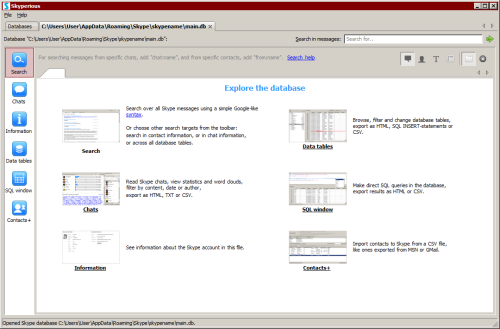
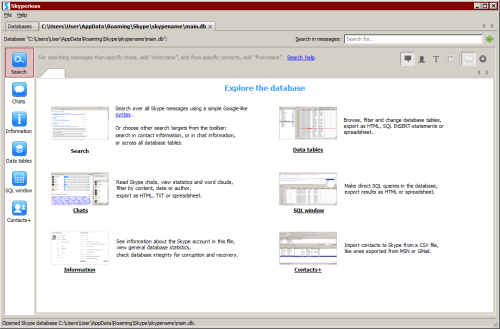
Updated texts and screenshots to v2.3.

diff --git a/index.html b/index.html
@@ -38,9 +38,9 @@
           <a href="https://github.com/suurjaak/Skyperious">View the Project on GitHub <small>suurjaak/Skyperious</small></a>
         </p>
         <ul>
-          <li><a href="http://erki.lap.ee/downloads/Skyperious/skyperious_2.2_setup.exe">Download <strong>Setup</strong></a></li>
-          <li><a href="http://erki.lap.ee/downloads/Skyperious/skyperious_2.2_x64_setup.exe">Download <strong>64bit Setup</strong></a></li>
-          <li><a href="http://erki.lap.ee/downloads/Skyperious/skyperious_2.2-src.zip">Download <strong>Source</strong></a></li>
+          <li><a href="http://erki.lap.ee/downloads/Skyperious/skyperious_2.3_setup.exe">Download <strong>Setup</strong></a></li>
+          <li><a href="http://erki.lap.ee/downloads/Skyperious/skyperious_2.3_x64_setup.exe">Download <strong>64bit Setup</strong></a></li>
+          <li><a href="http://erki.lap.ee/downloads/Skyperious/skyperious_2.3-src.zip">Download <strong>Source</strong></a></li>
         </ul>
       </header>
       <section>
@@ -96,13 +96,13 @@ Python packages are installed.
 Skyperious has been built using the following open-source software:
 <ul>
 <li>Python 2.7.5, <a href="http://www.python.org">www.python.org</a></li>
-<li>wxPython 2.9.4, <a href="http://wxpython.org">wxpython.org</a></li>
-<li>BeautifulSoup 3.2.1, <a href="http://crummy.com/software/BeautifulSoup">crummy.com/software/BeautifulSoup</a></li>
+<li>wxPython 2.9.5, <a href="http://wxpython.org">wxpython.org</a></li>
 <li>step, Simple Template Engine for Python, <a href="https://github.com/dotpy/step">github.com/dotpy/step</a></li>
 <li>pyparsing 2.0.1, <a href="http://pyparsing.wikispaces.com/">pyparsing.wikispaces.com</a></li>
+<li>XlsxWriter 0.4.8, <a href="https://github.com/jmcnamara/XlsxWriter">github.com/jmcnamara/XlsxWriter</a></li>
 <li>dateutil, <a href="https://pypi.python.org/pypi/python-dateutil">pypi.python.org/pypi/python-dateutil</a></li>
 <li>Skype4Py, <a href="https://github.com/awahlig/skype4py">github.com/awahlig/skype4py</a></li>
-<li>PyInstaller 2.0, <a href="http://www.pyinstaller.org">www.pyinstaller.org</a></li>
+<li>PyInstaller 2.1, <a href="http://www.pyinstaller.org">www.pyinstaller.org</a></li>
 </ul>
 
 <p>Emoticon images in HTML export are property of Skype Limited, &copy; 2004-2006,

diff --git a/changelog.html b/changelog.html
@@ -38,14 +38,33 @@
           <a href="https://github.com/suurjaak/Skyperious">View the Project on GitHub <small>suurjaak/Skyperious</small></a>
         </p>
         <ul>
-          <li><a href="http://erki.lap.ee/downloads/Skyperious/skyperious_2.2_setup.exe">Download <strong>Setup</strong></a></li>
-          <li><a href="http://erki.lap.ee/downloads/Skyperious/skyperious_2.2_x64_setup.exe">Download <strong>64bit Setup</strong></a></li>
-          <li><a href="http://erki.lap.ee/downloads/Skyperious/skyperious_2.2-src.zip">Download <strong>Source</strong></a></li>
+          <li><a href="http://erki.lap.ee/downloads/Skyperious/skyperious_2.3_setup.exe">Download <strong>Setup</strong></a></li>
+          <li><a href="http://erki.lap.ee/downloads/Skyperious/skyperious_2.3_x64_setup.exe">Download <strong>64bit Setup</strong></a></li>
+          <li><a href="http://erki.lap.ee/downloads/Skyperious/skyperious_2.3-src.zip">Download <strong>Source</strong></a></li>
         </ul>
       </header>
 
       <section>
         <h2>Changelog</h2>
+
+        <h4>v2.3, 2013-11-17:</h4>
+        <ul>
+          <li>added Excel export;</li>
+          <li>added option to export multiple chats to a single Excel workbook;</li>
+          <li>added database corruption detection and recovery;</li>
+          <li>added more statistics to database information page;</li>
+          <li>fixed exporting from MSN Live accounts;</li>
+          <li>fixed handling file transfer messages with unsupported filenames;</li>
+          <li>fixed concurrency errors during merging;</li>
+          <li>improved emoticon parsing;</li>
+          <li>improved Linux compatibility;</li>
+          <li>a number of minor bugfixes and UI changes;</li>
+          <li>increased error reporting;</li>
+          <li>upgraded wxPython from 2.9.4 to 2.9.5;</li>
+          <li>upgraded PyInstaller from 2.0 to 2.1;</li>
+          <li>dropped BeautifulSoup dependency.</li>
+        </ul>
+        <br />
 
         <h4>v2.2, 2013-09-25:</h4>
         <ul>

diff --git a/downloads.html b/downloads.html
@@ -38,9 +38,9 @@
           <a href="https://github.com/suurjaak/Skyperious">View the Project on GitHub <small>suurjaak/Skyperious</small></a>
         </p>
         <ul>
-          <li><a href="http://erki.lap.ee/downloads/Skyperious/skyperious_2.2_setup.exe">Download <strong>Setup</strong></a></li>
-          <li><a href="http://erki.lap.ee/downloads/Skyperious/skyperious_2.2_x64_setup.exe">Download <strong>64bit Setup</strong></a></li>
-          <li><a href="http://erki.lap.ee/downloads/Skyperious/skyperious_2.2-src.zip">Download <strong>Source</strong></a></li>
+          <li><a href="http://erki.lap.ee/downloads/Skyperious/skyperious_2.3_setup.exe">Download <strong>Setup</strong></a></li>
+          <li><a href="http://erki.lap.ee/downloads/Skyperious/skyperious_2.3_x64_setup.exe">Download <strong>64bit Setup</strong></a></li>
+          <li><a href="http://erki.lap.ee/downloads/Skyperious/skyperious_2.3-src.zip">Download <strong>Source</strong></a></li>
         </ul>
       </header>
       <section>

diff --git a/screens.html b/screens.html
@@ -38,9 +38,9 @@
           <a href="https://github.com/suurjaak/Skyperious">View the Project on GitHub <small>suurjaak/Skyperious</small></a>
         </p>
         <ul>
-          <li><a href="http://erki.lap.ee/downloads/Skyperious/skyperious_2.2_setup.exe">Download <strong>Setup</strong></a></li>
-          <li><a href="http://erki.lap.ee/downloads/Skyperious/skyperious_2.2_x64_setup.exe">Download <strong>64bit Setup</strong></a></li>
-          <li><a href="http://erki.lap.ee/downloads/Skyperious/skyperious_2.2-src.zip">Download <strong>Source</strong></a></li>
+          <li><a href="http://erki.lap.ee/downloads/Skyperious/skyperious_2.3_setup.exe">Download <strong>Setup</strong></a></li>
+          <li><a href="http://erki.lap.ee/downloads/Skyperious/skyperious_2.3_x64_setup.exe">Download <strong>64bit Setup</strong></a></li>
+          <li><a href="http://erki.lap.ee/downloads/Skyperious/skyperious_2.3-src.zip">Download <strong>Source</strong></a></li>
         </ul>
       </header>
       <section>
